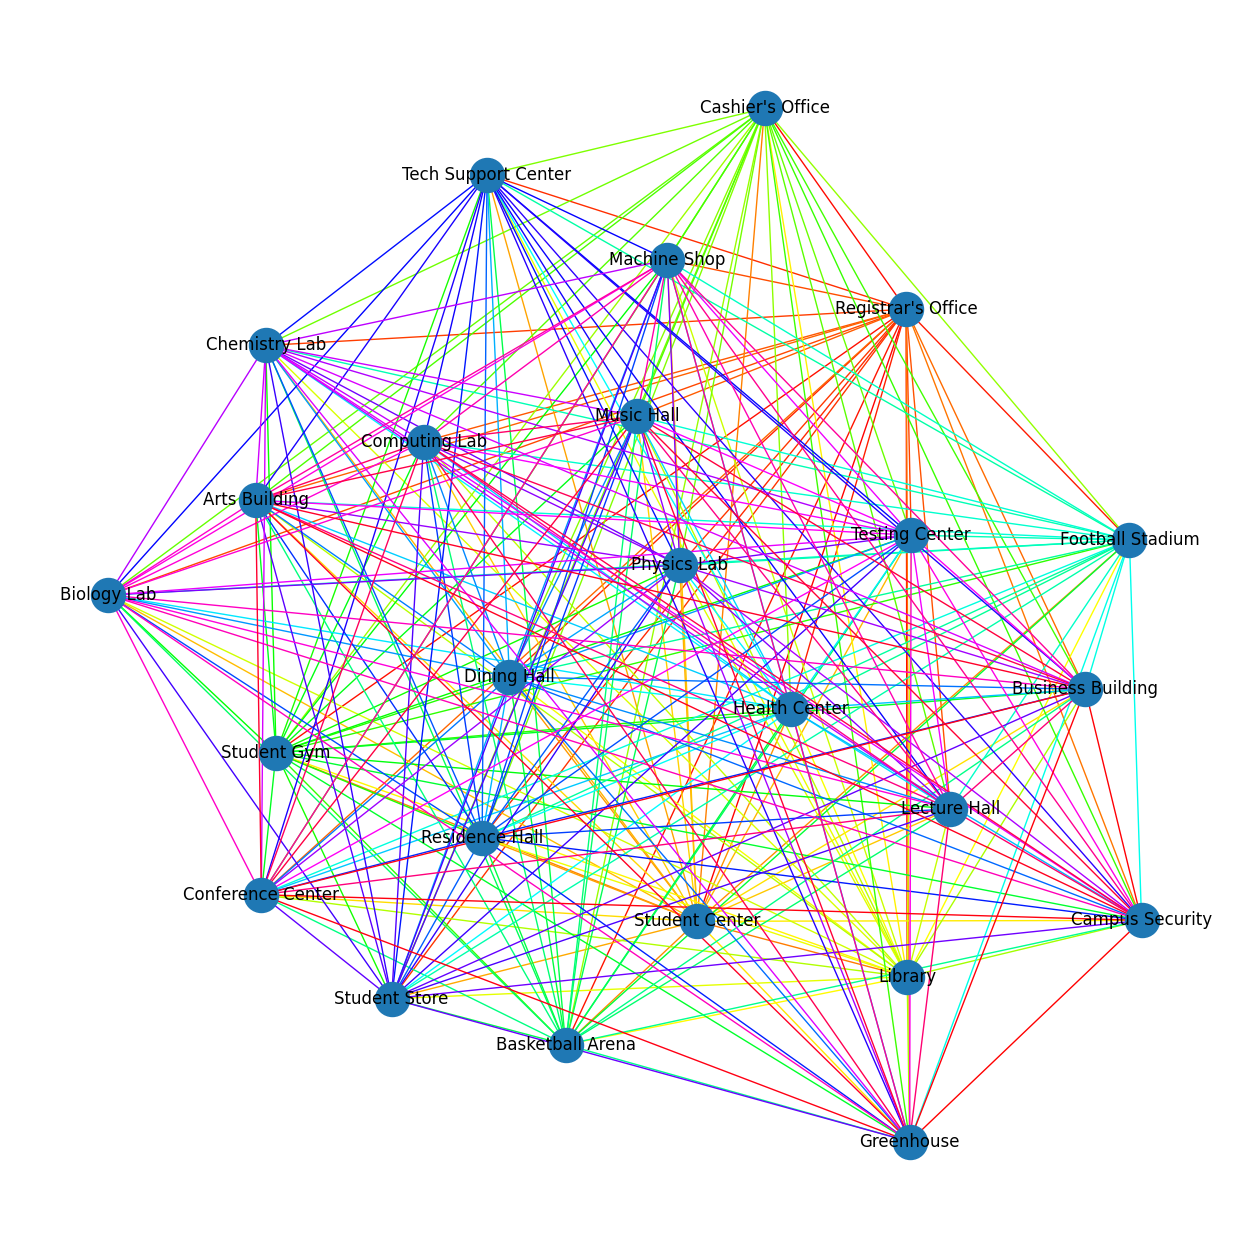
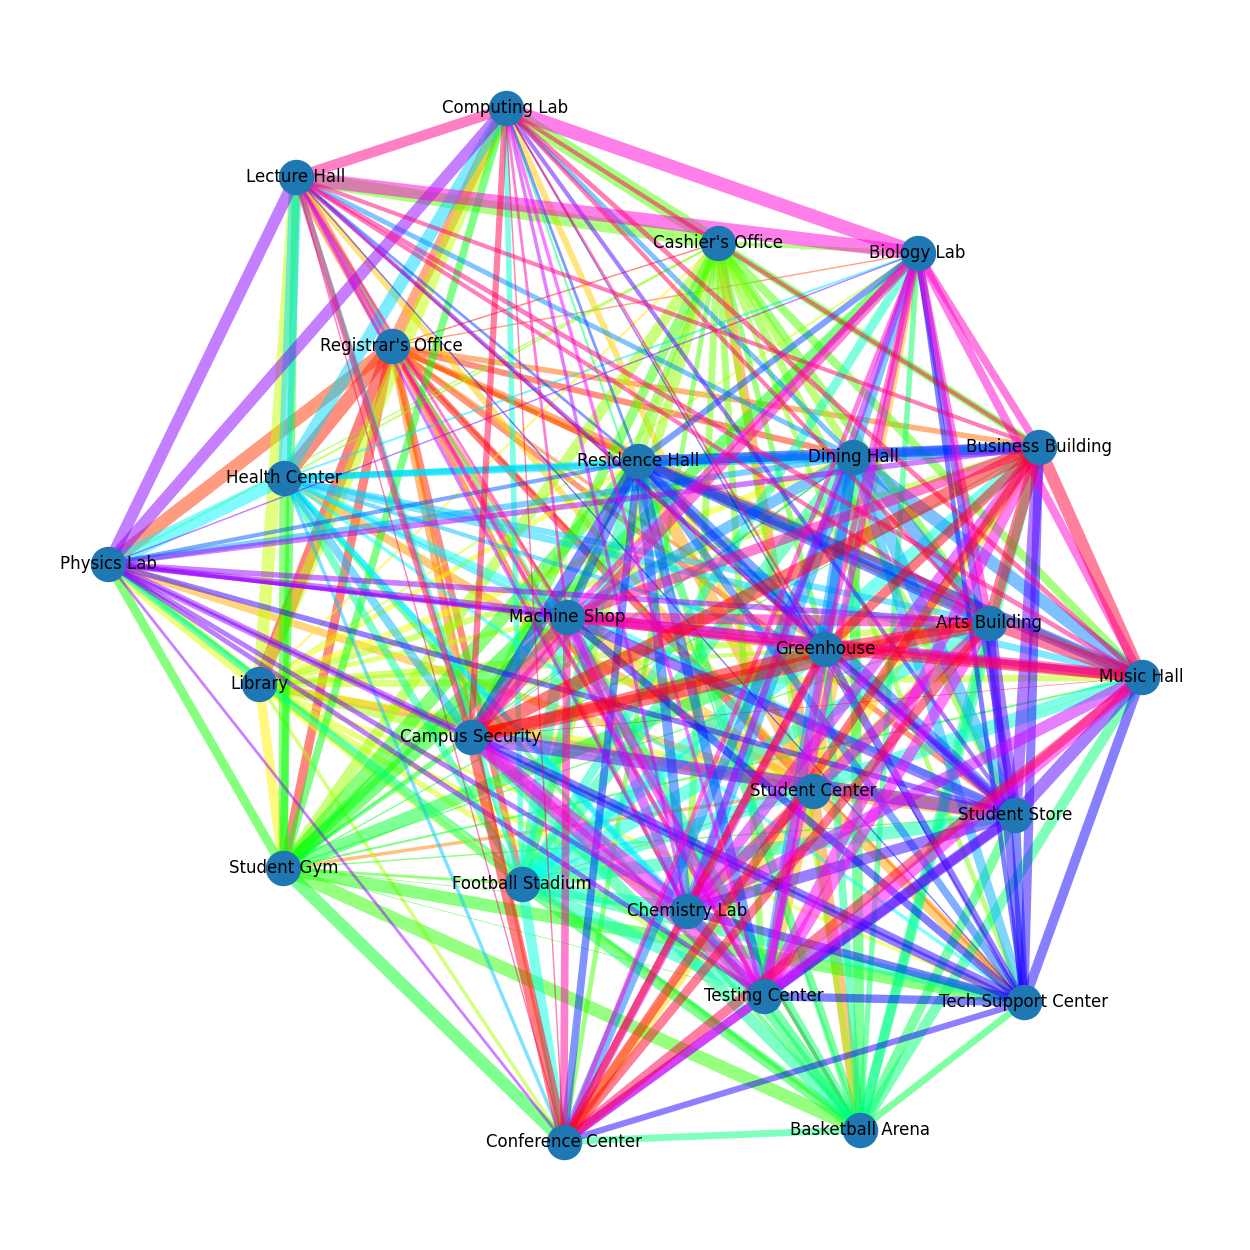
Update visualization to use edge alpha

diff --git a/matplotviz.py b/matplotviz.py
@@ -7,23 +7,32 @@ import colorsys
 import time
 
 
-def draw_graph(g: nx.Graph) -> str:
+def draw_graph(graph: nx.Graph, show_edge_weights=False) -> str:
     """
         Function that takes in a networkx Graph and draws it to a PNG file. Makes the edges multicolored and writes the labels on your nodes.
+        Scales the edge width by its weight if show_edge_weights=True
         Returns the name of the image file created.
     """
     # Make the default size bigger; it needs to be with very dense graphs
-    size = max(len(g.nodes) / 2, 5)
+    size = max(len(graph.nodes) / 2, 5)
     plt.rcParams['figure.figsize'] = [size, size]
 
     # Calculate edge colors
-    hues = np.linspace(0, 1, len(g.edges))
+    hues = np.linspace(0, 1, len(graph.edges))
     edge_colors = []
-    for hue in hues:
-        edge_colors.append(colorsys.hsv_to_rgb(hue, 1.0, 1.0))
+    if show_edge_weights:
+        for hue in hues:
+            r, g, b = colorsys.hsv_to_rgb(hue, 1.0, 1.0)
+            edge_colors.append((r, g, b, 0.5))
+    else:
+        for hue in hues:
+            edge_colors.append(colorsys.hsv_to_rgb(hue, 1.0, 1.0))
 
     # Draw the thing
-    nx.draw(g, with_labels=True, edge_color=edge_colors, node_size=600)
+    if not show_edge_weights:
+        nx.draw(graph, with_labels=True, edge_color=edge_colors, node_size=600)
+    else:
+        nx.draw(graph, with_labels=True, edge_color=edge_colors, node_size=600, width=[edge[2]['weight'] / 2 for edge in graph.edges.data()])
     filename = "graph_plot_{0}.png".format(time.time())
     plt.savefig(filename)
     return filename

diff --git a/buildings_setup.py b/buildings_setup.py
@@ -13,7 +13,7 @@ for i in range(len(buildings)):
     g.add_node(buildings[i])
     for j in range(i, len(buildings)):
         if buildings[j] is not buildings[i]:
-            g.add_edge(buildings[i], buildings[j], weight=((hash(buildings[i]) + hash(buildings[j])) % 21) + 1)
+            g.add_edge(buildings[i], buildings[j], weight=((hash(buildings[i]) + hash(buildings[j])) % 20) + 1)
 
 pp = PrettyPrinter(indent=4, width=80)
 pp.pprint(str(g))
